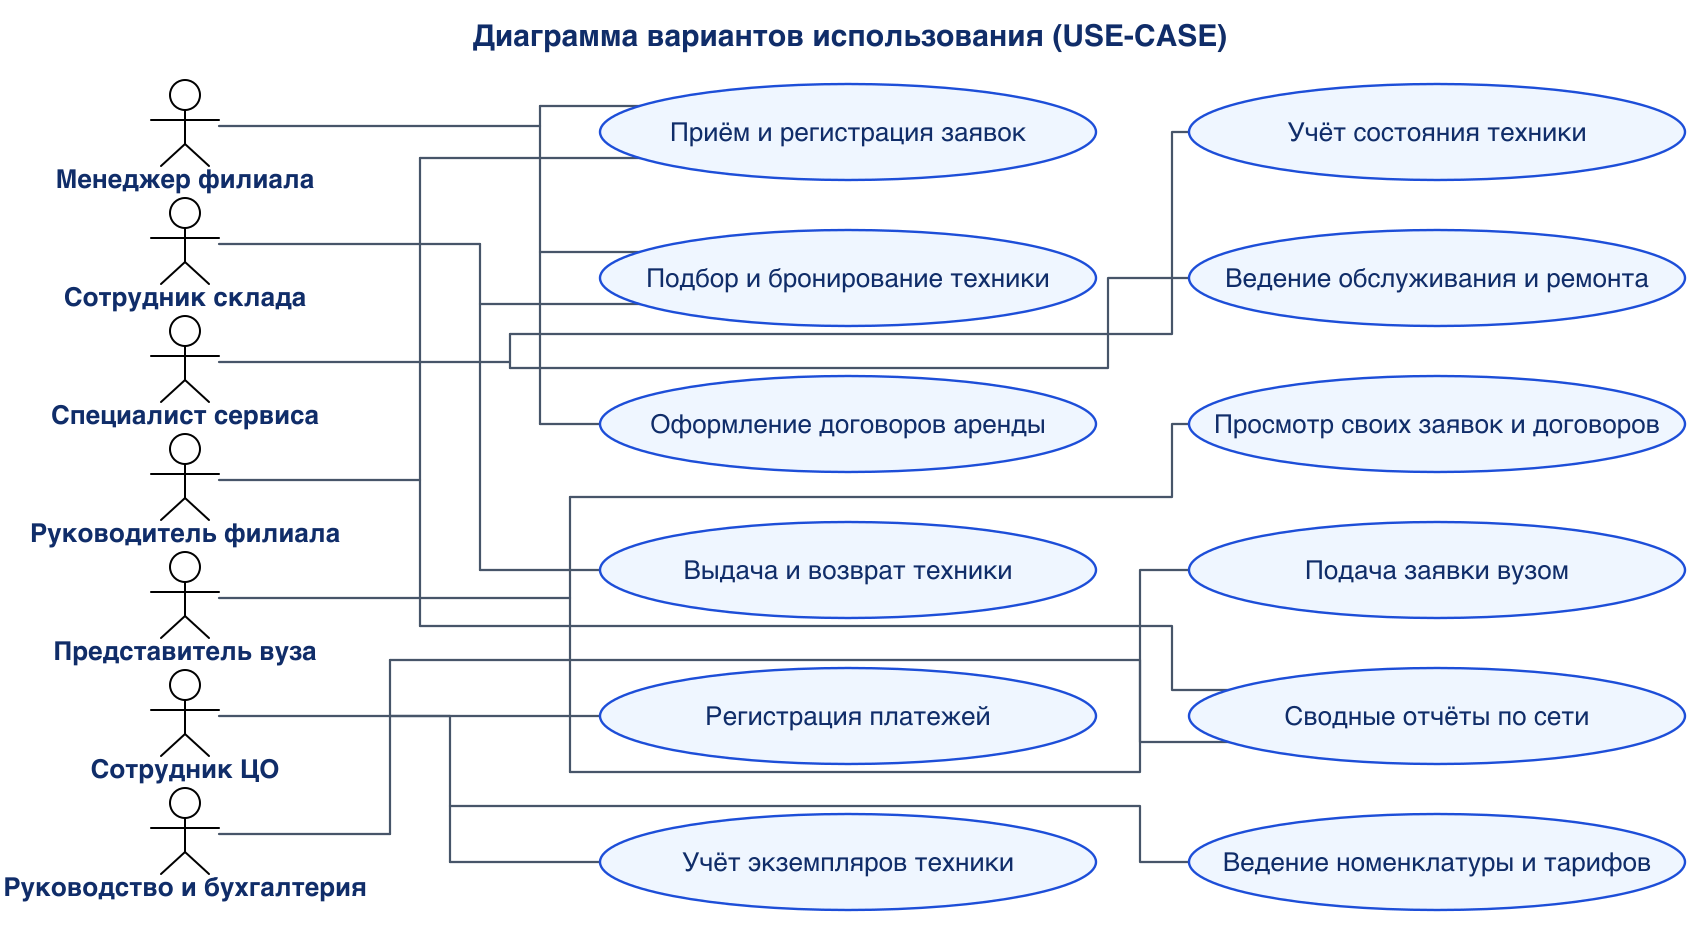
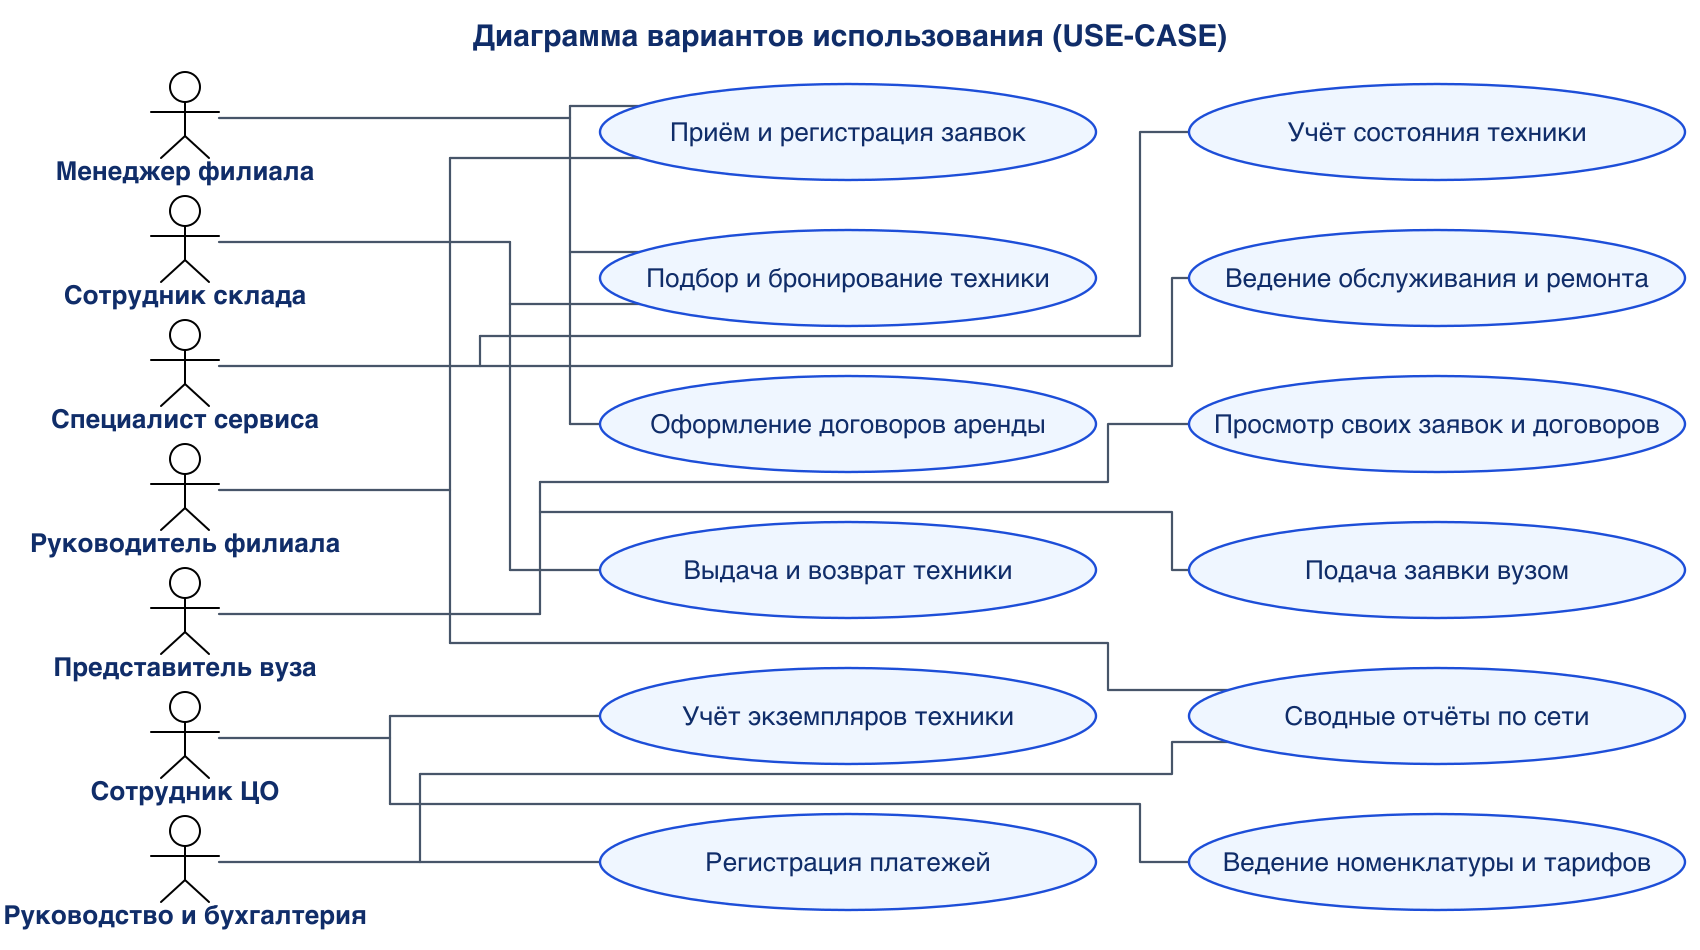
Use-case: разведены коннекторы (был «пучок» линий)
7 вертикальных стволов с шагом 25 px и межколоночный канал с шагом 5 px
сливались в «паутину». Связей 20 -> 15 (по 2-3 ключевых прецедента на
актёра), у каждого актёра свой слот с шагом 30 px, ствол идёт только до
самой дальней подводки. Пересечений 11 вместо ~30.

diff --git a/tools/gen_usecase_v2.py b/tools/gen_usecase_v2.py
@@ -26,15 +26,22 @@ CampusRent — диаграмма вариантов использования 
     короткому вертикальному каналу в промежутке между колонками и только
     потом входят в овал. Каналы разнесены по трём позициям (1108/1140/1172)
     и имеют разную высоту, поэтому не сливаются в пучок.
-  * Число связей сокращено с 30 до 15: у каждого актёра 2–3 ключевых
+  * Число связей сокращено с 20 до 15: у каждого актёра 2–3 ключевых
     прецедента вместо 4–5 (см. LINKS). Полнота принесена в жертву
     читаемости — как и требует задача.
   * Если в прецедент входят несколько актёров, точки входа разведены по
     левой дуге овала (ENTRY_DY), поэтому линии не сливаются в одну.
+  * Ряд актёров выровнен по своим подводкам (AY0/AY_STEP), чтобы ствол
+    переходил в горизонталь без «микро-уступа» в 2–4 px, который читается
+    как дефект отрисовки.
+  * Порядок прецедентов в правой колонке (RIGHT_ORDER) подобран так, чтобы
+    подводок, идущих через всю схему, было меньше; логический порядок
+    левой колонки сохранён.
 
-Итог: 15 связей, ни одного наложения линий, 11 ортогональных пересечений
-(все — чистые пересечения под 90°, без «пучков»). Проверяется функцией
-self_check() при каждой генерации.
+Итог: 15 связей, ни одного наложения линий, ни одного T-стыка, 11
+ортогональных пересечений (все — чистые пересечения под 90°, без «пучков»:
+соседние вертикали стоят не ближе 30 px и не тянутся через всю схему).
+Всё это проверяется функцией self_check() при каждой генерации.
 
 Компоновка сохранена по требованиям: 7 актёров слева, 12 прецедентов в двух
 колонках, все подписи >= 26 px, полотно 1700x950.
@@ -81,7 +88,7 @@ FS_UC = 26                  # текст внутри овалов
 
 # актёры: фигурки в один столбец слева
 AX = 185                    # центр фигурки по X
-AY0, AY_STEP = 126, 118     # центр фигурки по Y (7 актёров)
+AY0, AY_STEP = 118, 124     # центр фигурки по Y (7 актёров)
 LABEL_DY = 62               # базовая линия подписи актёра относительно центра
 HEAD_R = 15
 ARM_HALF = 34
@@ -123,7 +130,7 @@ UC_NAME = {
     12: "Сводные отчёты по сети",
 }
 # порядок прецедентов сверху вниз в каждой колонке
-LEFT_ORDER = [1, 2, 3, 4, 5, 6]
+LEFT_ORDER = [1, 2, 3, 4, 6, 5]
 RIGHT_ORDER = [7, 8, 10, 9, 12, 11]
 
 UC = {}
@@ -152,20 +159,20 @@ LINKS = {
 # Порядок слотов подобран так, чтобы пересечений было минимум
 # (см. TRUNK_X: у кого подводки длиннее — тот стоит правее).
 TRUNK_SLOTS = [390 + 30 * i for i in range(len(ACTORS))]
-TRUNK_X = {0: 540, 1: 480, 2: 510, 3: 420, 4: 570, 5: 450, 6: 390}
+TRUNK_X = {0: 570, 1: 510, 2: 480, 3: 450, 4: 540, 5: 390, 6: 420}
 
 # Свободная горизонтальная полоса для подводки к правой колонке:
 #   b — номер зазора между строками (b и b+1), lane лежит внутри зазора.
 LANE_BAND = {
-    (2, 7): 1, (2, 8): 1, (3, 12): 3, (4, 9): 4, (4, 10): 2,
-    (5, 11): 4, (6, 12): 3,
+    (2, 7): 1, (2, 8): 1, (3, 12): 3, (4, 9): 2, (4, 10): 2,
+    (5, 11): 4, (6, 12): 4,
 }
-LANE_MARGIN = 8             # отступ полосы от обводки овалов
+LANE_MARGIN = 10            # отступ полосы от обводки овалов
 
 # Вертикальный канал в промежутке между колонками (1096…1189).
 CH_X = {
-    (2, 7): 1172, (2, 8): 1108, (3, 12): 1172, (4, 9): 1140,
-    (4, 10): 1172, (5, 11): 1140, (6, 12): 1140,
+    (2, 7): 1140, (2, 8): 1172, (3, 12): 1108, (4, 9): 1172,
+    (4, 10): 1108, (5, 11): 1140, (6, 12): 1172,
 }
 CH_SLOTS = sorted(set(CH_X.values()))
 
@@ -498,6 +505,19 @@ def self_check(verbose=True):
                 problems.append(f"линия «{l2}» упирается в «{l1}» (T-образный стык)")
             elif rel == "cross":
                 crossings.append((l1, l2))
+
+    # 4b. почти совпадающие горизонтали не должны давать «микро-уступ»
+    horiz = [(lab, p1, p2) for lab, _o, p1, p2 in segs if p1[1] == p2[1]]
+    for i in range(len(horiz)):
+        l1, p1, p2 = horiz[i]
+        for j in range(i + 1, len(horiz)):
+            l2, p3, p4 = horiz[j]
+            dy = abs(p1[1] - p3[1])
+            a0, a1 = sorted([p1[0], p2[0]])
+            b0, b1 = sorted([p3[0], p4[0]])
+            gap = max(a0, b0) - min(a1, b1)
+            if 0 < dy < 12 and gap < 60:
+                problems.append(f"«микро-уступ» {dy:.0f} px между «{l1}» и «{l2}»")
 
     # 5. вертикальные стволы стоят не ближе 26 px друг к другу
     spans = {a: trunk_span(a) for a in sorted(LINKS)}
